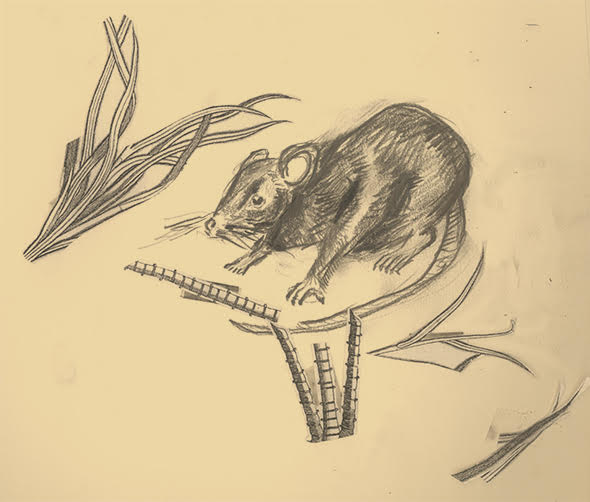
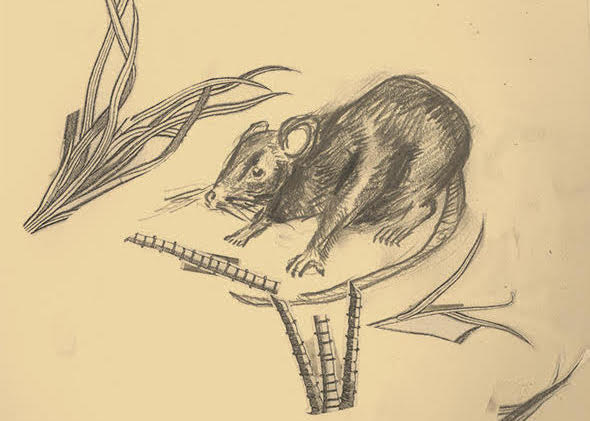
using title-test for home image

Changed region(s): [[0.0305, 0.0, 0.9153, 0.9881], [0.7627, 0.772, 0.9763, 1.0], [0.9763, 0.8337, 1.0, 0.8646]]

diff --git a/_sass/_grainger.scss b/_sass/_grainger.scss
@@ -20,7 +20,7 @@
 	}	
 
 	#fixed-banner {
-    background: url("https://ktakahata.github.io/grainger/assets/title.jpg") no-repeat top center fixed;
+    background: url("https://ktakahata.github.io/grainger/assets/title-test.jpg") no-repeat top center fixed;
     background-size: cover;
     height: 600px;
     width: 100%;
